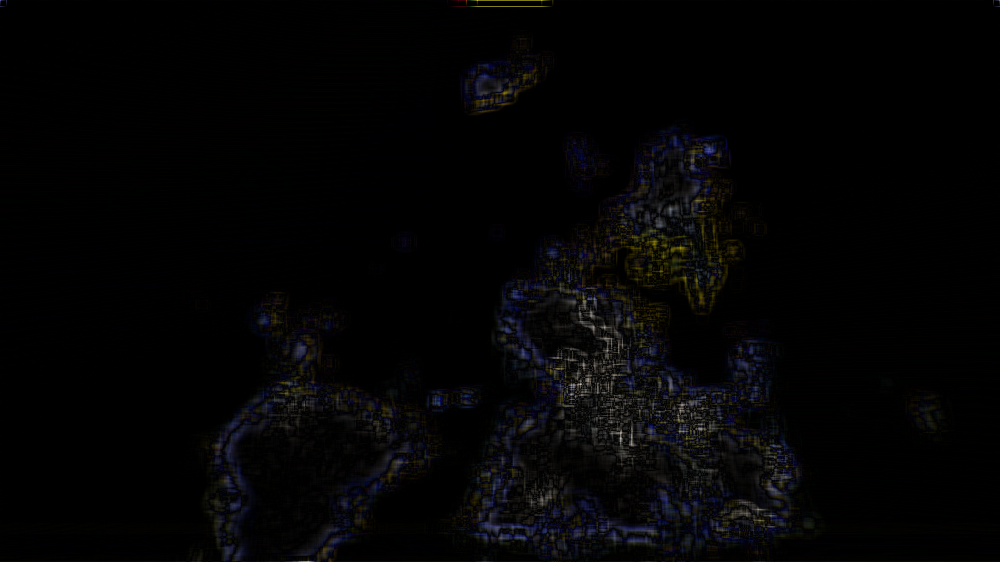
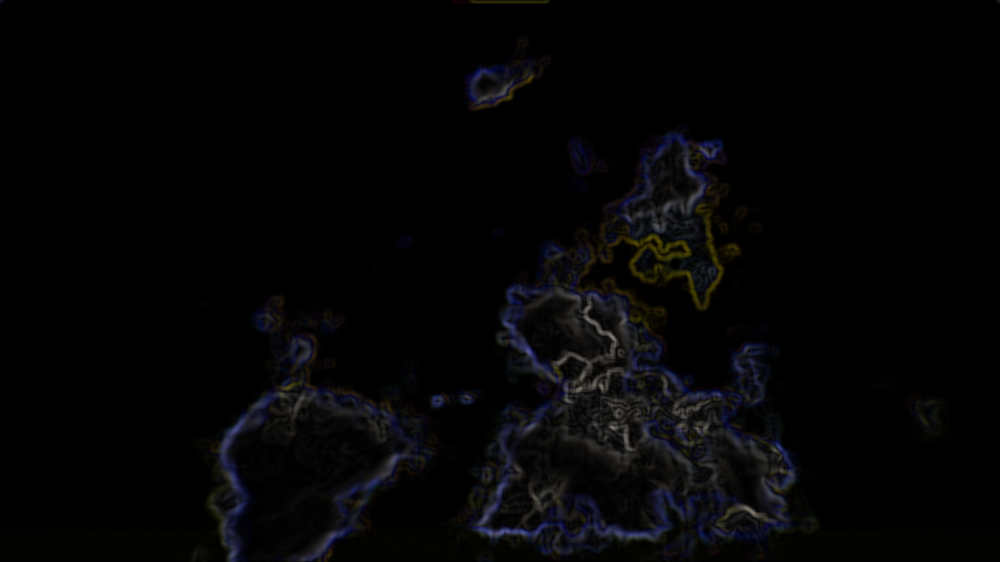
there is another

diff --git a/main.cpp b/main.cpp
@@ -2,7 +2,7 @@
 
 int main() {
     Device::LoadImage("../source.png");
-    Device::ExecuteProgram("../main.cl", 5);
+    Device::ExecuteProgram("../main.cl", 2);
     Device::SaveImage("../afterBlur.png", "../afterEdge.png");
     return 0;
 }
